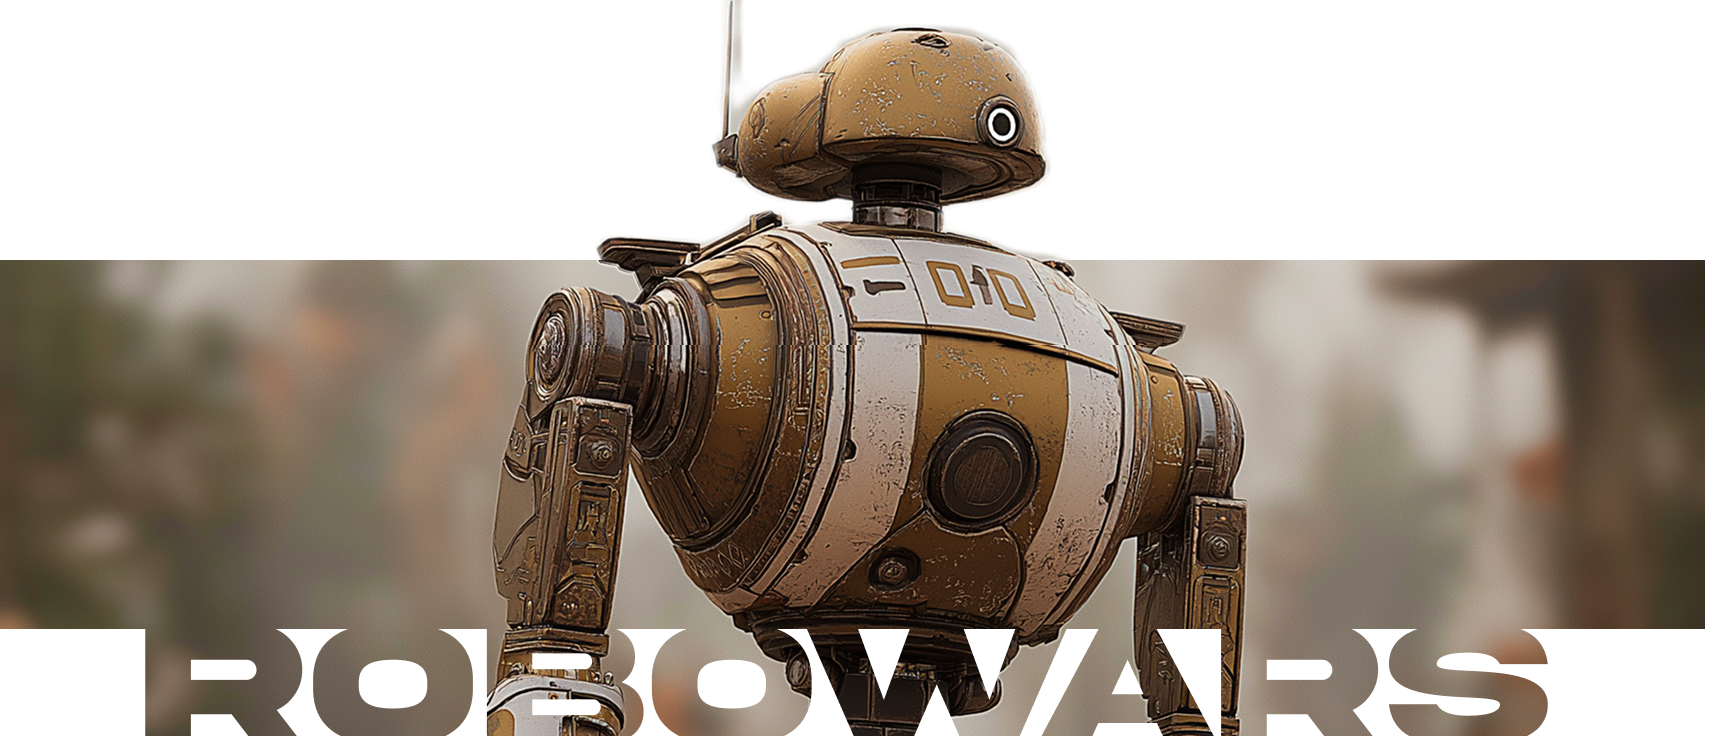
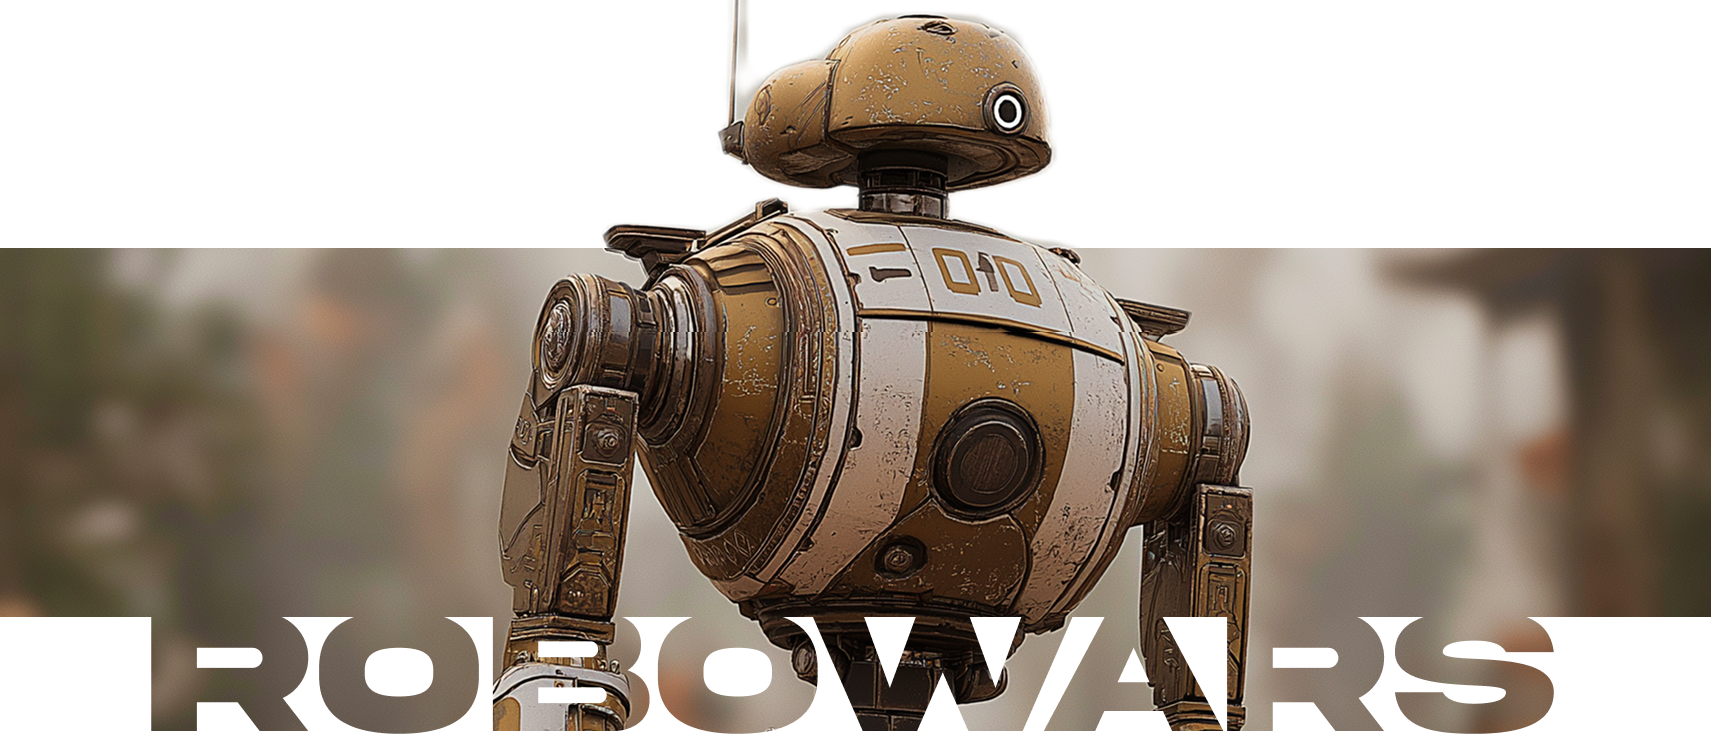
i quit this page

Changed region(s): [[0.0, 0.0, 1.0, 0.9946], [0.8054, 0.8081, 0.8364, 0.8392]]

diff --git a/app/components/Robowars.jsx b/app/components/Robowars.jsx
@@ -46,7 +46,7 @@ function BarcodeImage({ src, alt }) {
 function Loader() {
   return (
     <>
-      <div className="flex mt-10 ml-10 mb-50">
+      <div className="flex mt-10 ml-10 mr-30">
         <div className="loader-item opacity-0" style={{ animationDelay: "0s" }}>
           <ImgtoImage src="/roboloader.png" alt="roboloader" />
         </div>
@@ -86,12 +86,6 @@ function Loader() {
         >
           <ImgtoImage src="/roboloader.png" alt="roboloader" />
         </div>
-        <div
-          className="loader-item opacity-0"
-          style={{ animationDelay: "2.8s" }}
-        >
-          <ImgtoImage src="/roboloader.png" alt="roboloader" />
-        </div>
       </div>
     </>
   );
@@ -120,14 +114,16 @@ function Region() {
                 <div
                   className={`bg-black px-2 pr-6 sm:pr-8 md:pr-12 lg:pr-24 py-1 ${schabo.className}`}
                 >
-                  <span className="text-white robopagetitle">OCT 26,27</span>
+                  <span className="text-white robopagetitle tracking-wider">
+                    OCT 26,27
+                  </span>
                 </div>
                 <div className={`bg-black py-1 ${schabo.className}`}>
                   <span className="robopagetitle">l</span>
                 </div>
 
                 <div
-                  className={`${spacemono.className} text-[10px] sm:text-sm md:text-xl lg:text-2xl text-[400] flex flex-col`}
+                  className={`${spacemono.className} text-[15px] sm:text-sm md:text-xl lg:text-2xl text-[400] flex flex-col`}
                 >
                   <span>30 x 30 FT. ARENA</span>
                   <span>15KG \ 60KG</span>
@@ -135,7 +131,9 @@ function Region() {
               </div>
             </div>
             <div className={`text-black ${schabo.className}`}>
-              <span className="robopagetitle">PRIZES WORTH INR 8 LAKH</span>
+              <span className="robopagetitle tracking-wider">
+                PRIZES WORTH INR 8 LAKH
+              </span>
             </div>
           </div>
           <div className="flex">
@@ -151,17 +149,7 @@ function Region() {
 /*Main pic*/
 function Picture() {
   return (
-    <div className="absolute w-full -top-[16%]">
-      <div className="w-full">
-        <ImgtoImage src="/robowars.png" alt="robowars" />
-      </div>
-    </div>
-  );
-}
-
-function Pseudopicture() {
-  return (
-    <div className="w-full scale-50 opacity-0">
+    <div className="w-full">
       <div className="w-full">
         <ImgtoImage src="/robowars.png" alt="robowars" />
       </div>
@@ -172,17 +160,12 @@ function Pseudopicture() {
 export default function Robowars({ link }) {
   return (
     <>
-      <div className="pt-100">
-        <div className="relative bg-[url('/robopagebg.png')] bg-amber-200 bg-cover">
-          <Line />
-          <Loader />
-          <Picture />
-          <div className="w-[65%] h-[65%]">
-            <Pseudopicture />
-          </div>
-          <Region />
-          <Line />
-        </div>
+      <div className="relative bg-[url('/robopagebg.png')] bg-amber-200 bg-cover">
+        <Line />
+        <Loader />
+        <Picture />
+        <Region />
+        <Line />
       </div>
     </>
   );
